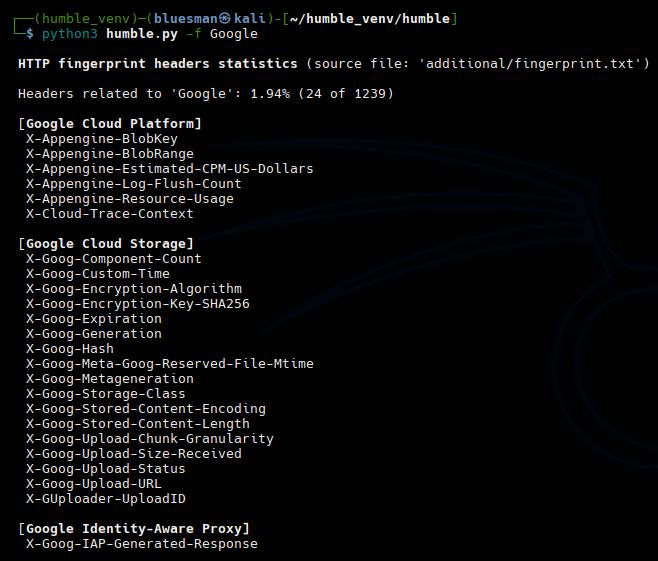
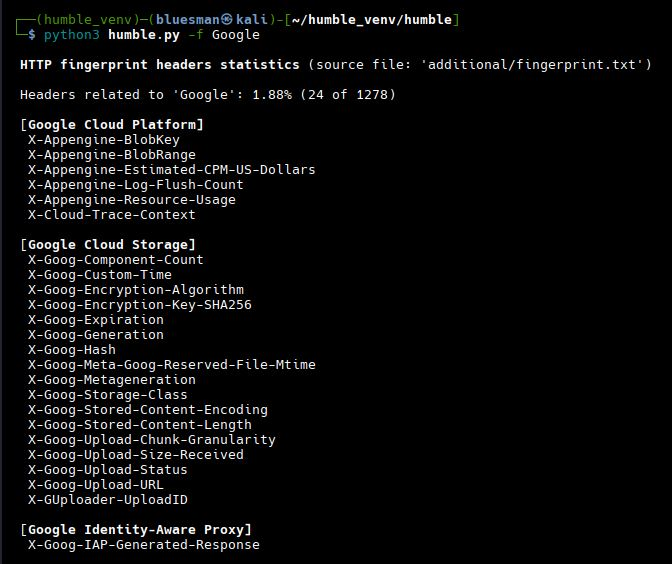
Feature: 19 new fingerprint headers

diff --git a/humble.py b/humble.py
@@ -180,7 +180,7 @@ XFRAME_CHECK = 'X-Frame-Options ('
 XML_STRING = ('Ref: ', 'Value: ', 'Valor: ')
 
 current_time = datetime.now().strftime("%Y/%m/%d - %H:%M:%S")
-local_version = datetime.strptime('2026-03-14', '%Y-%m-%d').date()
+local_version = datetime.strptime('2026-03-20', '%Y-%m-%d').date()
 
 BANNER_VERSION = f'{URL_LIST[4]} | v.{local_version}'
 

diff --git a/README.md b/README.md
@@ -6,7 +6,7 @@
 <a target="_blank" href="https://devguide.python.org/versions/" title="Minimum Python version required to run this tool"><img src="https://img.shields.io/badge/Python-%3E%3D3.11-blue?labelColor=343b41"></a>
 <a target="_blank" href="LICENSE" title="License of this tool"><img src="https://img.shields.io/badge/License-MIT-blue.svg?labelColor=343b41"></a>
 <a target="_blank" href="https://github.com/rfc-st/humble/releases" title="Latest release of this tool"><img src="https://img.shields.io/github/v/release/rfc-st/humble?display_name=release&label=Latest%20Release&labelColor=343b41"></a>
-<a target="_blank" href="https://github.com/rfc-st/humble/commits/master" title="Latest commit of this tool"><img src="https://img.shields.io/badge/Latest_Commit-2026--03--14-blue.svg?labelColor=343b41"></a>
+<a target="_blank" href="https://github.com/rfc-st/humble/commits/master" title="Latest commit of this tool"><img src="https://img.shields.io/badge/Latest_Commit-2026--03--20-blue.svg?labelColor=343b41"></a>
 <a target="_blank" href="https://pkg.kali.org/pkg/humble" title="Official tool in Kali Linux"><img src="https://img.shields.io/badge/Kali%20Linux-Tool-blue?labelColor=343b41"></a>
 <br />
 <a target="_blank" href="#" title="Featured on:"><img src="https://img.shields.io/badge/Featured%20on:-343b41"></a>
@@ -68,7 +68,7 @@
 
 :heavy_check_mark: Covers 62 [enabled](#checks-enabled-headers) security-related HTTP response headers.<br />
 :heavy_check_mark: 15 [checks](#checks-missing-headers) for missing security-related HTTP response headers (the ones I consider essential).<br />
-:heavy_check_mark: 1259 [checks](#checks-fingerprint-headers) for fingerprinting through HTTP response headers.<br />
+:heavy_check_mark: 1278 [checks](#checks-fingerprint-headers) for fingerprinting through HTTP response headers.<br />
 :heavy_check_mark: 158 [checks](#checks-deprecated-headersprotocols-and-insecure-values) for deprecated HTTP response headers/protocols or with insecure/wrong values.<br />
 :heavy_check_mark: 28 [checks](https://github.com/rfc-st/humble/blob/master/additional/insecure.txt#L46-L73) related to Content Security Policy [Level 3](https://www.w3.org/TR/CSP3/).<br />
 :heavy_check_mark: Can check for compliance with the OWASP <a href="https://owasp.org/www-project-secure-headers/#div-bestpractices" target="_blank">Secure Headers Project</a> Best Practices.<br />

diff --git a/docs/index.md b/docs/index.md
@@ -25,7 +25,7 @@ Rafa *'Bluesman'* Faura Cucalón; you can read about me on <a href="https://www.
 ## Features
 - Covers 62 <a href="https://github.com/rfc-st/humble/#checks-enabled-headers" target="_blank">enabled</a> security-related HTTP response headers.
 - 15 <a href="https://github.com/rfc-st/humble/#checks-missing-headers" target="_blank">checks</a> for missing security-related HTTP response headers.
-- 1259 <a href="https://github.com/rfc-st/humble/#checks-fingerprint-headers" target="_blank">checks</a> for fingerprinting through HTTP response headers.
+- 1278 <a href="https://github.com/rfc-st/humble/#checks-fingerprint-headers" target="_blank">checks</a> for fingerprinting through HTTP response headers.
 - 158 <a href="https://github.com/rfc-st/humble/#checks-deprecated-headersprotocols-and-insecure-values" target="_blank">checks</a> for deprecated HTTP response headers/protocols or with insecure/wrong values.
 - 28 <a href="https://github.com/rfc-st/humble/blob/master/additional/insecure.txt#L46-L73" target="_blank">checks</a> related to Content Security Policy <a href="https://www.w3.org/TR/CSP3/" target="_blank">Level 3</a>.
 - Can check for compliance with the OWASP <a href="https://owasp.org/www-project-secure-headers/#div-bestpractices" target="_blank">Secure Headers Project</a> Best Practices.
@@ -78,6 +78,6 @@ And a special greeting to Alba, Aleix, Alejandro (x3), Álvaro, Ana, Carlos (x3)
 <aside class="md-source-file">
 <span class="md-source-file__fact">
 Last updated on
-<span class="git-revision-date-localized-plugin git-revision-date-localized-plugin-datetime"><em>March 14, 2026</em></span>
+<span class="git-revision-date-localized-plugin git-revision-date-localized-plugin-datetime"><em>March 20, 2026</em></span>
 </span>
 </aside>

diff --git a/docs/unit_tests.md b/docs/unit_tests.md
@@ -24,6 +24,6 @@ Functions and unit tests of **test_humble.py**, in alphabetical order (work in p
 <aside class="md-source-file">
 <span class="md-source-file__fact">
 Last updated on
-<span class="git-revision-date-localized-plugin git-revision-date-localized-plugin-datetime"><em>March 14, 2026</em></span>
+<span class="git-revision-date-localized-plugin git-revision-date-localized-plugin-datetime"><em>March 20, 2026</em></span>
 </span>
 </aside>

diff --git a/docs/references.md b/docs/references.md
@@ -7,6 +7,6 @@ Classes and functions of **humble.py**, in alphabetical order (work in progress)
 <aside class="md-source-file">
 <span class="md-source-file__fact">
 Last updated on
-<span class="git-revision-date-localized-plugin git-revision-date-localized-plugin-datetime"><em>March 14, 2026</em></span>
+<span class="git-revision-date-localized-plugin git-revision-date-localized-plugin-datetime"><em>March 20, 2026</em></span>
 </span>
 </aside>
